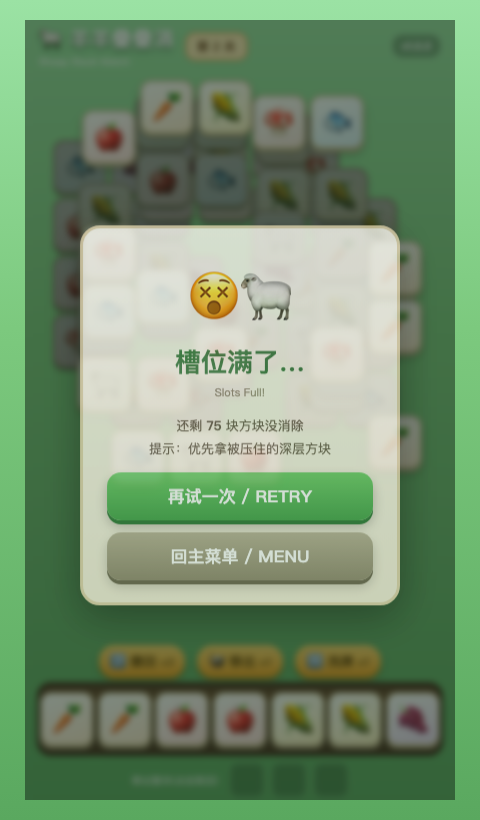
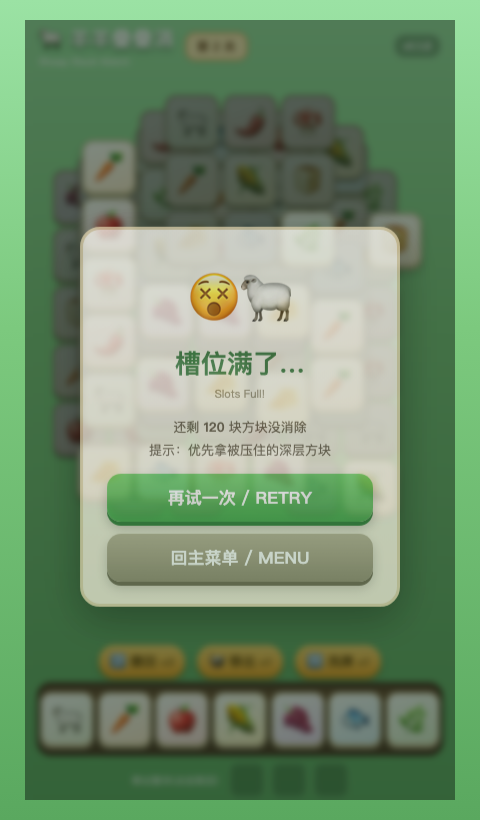
sheep-stack v1.1.0：难度重做——L1 教学关保持有解发牌，L2 起地狱难度（120 块/11 种/7 层，同类三张分埋顶/中/底三个深度带，还原原版卡关体验）；修复各层配额超容量导致落位数非 3 倍数的越界 bug

diff --git a/sheep-stack/game.js b/sheep-stack/game.js
@@ -1,7 +1,8 @@
 /* ============================================================
- * 羊羊叠叠消 Sheep Stack Match  v1.0.0
+ * 羊羊叠叠消 Sheep Stack Match  v1.1.0
  * 玩法：层叠卡牌 + 7 格槽位三消（类羊了个羊玩法，原创实现）
- * 特性：牌局按"消除顺序"发牌，数学上保证有解；无广告，道具免费限量
+ * 特性：L1 教学关（有解发牌）；L2 起地狱难度（三深度带深埋）；
+ *       无广告，道具免费限量
  * 句柄：window.__sheep（自动化测试用）
  * ============================================================ */
 (function () {
@@ -26,12 +27,17 @@ const TYPES = [
   { e: '🌰', c: '#ecdfc8' }, { e: '🌻', c: '#fff3cf' },
 ];
 
-// 关卡配置：L1 新手，L2 起地狱难度递增
+// 关卡配置：L1 新手教学（有解发牌）；L2 起地狱难度（同类三张深埋三个深度带，
+// 还原原版「第一关就是最后一关」的卡关体验）
 function levelConf(lv) {
-  const n = Math.min(45 + (lv - 1) * 30, 150);
-  const types = Math.min(5 + lv, TYPES.length);
-  const layers = Math.min(3 + lv, 9);
-  return { n: Math.round(n / 3) * 3, types, layers,
+  if (lv <= 1) {
+    return { n: 45, types: 4, layers: 3, spread: false,
+             undo: 3, out: 1, shuffle: 1 };
+  }
+  const n = Math.min(120 + (lv - 2) * 15, 150);
+  const types = Math.min(11 + (lv - 2), TYPES.length);
+  const layers = Math.min(7 + (lv - 2), 9);
+  return { n: Math.round(n / 3) * 3, types, layers, spread: true,
            undo: 3, out: 1, shuffle: 1 };
 }
 
@@ -52,11 +58,10 @@ const G = {
 const $ = (s) => document.querySelector(s);
 const board = $('#board'), slotBar = $('#slotBar'), outBar = $('#outBar');
 
-// ---------- 发牌（保证有解）----------
-// positions：分层布局；sortIndex：0 = 最顶层（最先可拿）。
-// 发牌把第 t 组三张放在"消除顺序"上连续的三个位置（sortIndex 3t..3t+2）——
-// 严格按 sortIndex 从小到大拿牌时，任何时刻槽内最多压 1 个待配对子 + 1 张单张，
-// 槽位峰值 ≤ 4 < 7，必有一条通关路径；层内格子随机打散，类型不会扎堆相邻。
+// ---------- 发牌 ----------
+// positions：分层布局；sortIndex：0 = 最顶层（最先可拿），rank = N-1-idx = 消除顺序。
+// 教学关用"连续三元组"（严格按序拿牌槽位峰值 ≤4，保证有解）；
+// 地狱关用"三深度带交错"（同类三张分埋顶/中/底，难度对齐原版第二关）。
 function genLayout(conf) {
   const layers = conf.layers;
   const layPos = [];
@@ -83,20 +88,26 @@ function deal(conf) {
   board.style.height = maxBottom + 'px';
   $('#boardWrap').style.width = (maxRight + 6) + 'px';
 
-  // 1) 各层分配数量（底层多、顶层少）
+  // 1) 各层分配数量（底层多、顶层少），并夹到每层格子容量内
   const L = conf.layers;
   const w = []; let wSum = 0;
   for (let i = 0; i < L; i++) { w.push(1 + (L - 1 - i) * 0.45); wSum += w[i]; }
-  const counts = w.map(x => Math.round(conf.n * x / wSum));
+  const counts = w.map((x, i) =>
+    Math.min(Math.round(conf.n * x / wSum), layPos[i].cells.length));
   let diff = conf.n - counts.reduce((a, b) => a + b, 0);
-  for (let i = 0; diff !== 0; i = (i + 1) % L) {           // 差额回填底层
-    const cap = layPos[i].cells.length - counts[i];
-    if (diff > 0 && cap > 0) { counts[i]++; diff--; }
-    else if (diff < 0 && counts[i] > 0) { counts[i]--; diff++; }
-    if (counts.every((c, j) => c <= layPos[j].cells.length) && diff === 0) break;
+  for (let guard = 0; diff !== 0 && guard < 500; guard++) {
+    let changed = false;
+    if (diff > 0) {          // 差额优先回填底层（剩余容量最大）
+      for (let i = 0; i < L && diff > 0; i++)
+        if (counts[i] < layPos[i].cells.length) { counts[i]++; diff--; changed = true; }
+    } else {                 // 多了就从顶层往下扣
+      for (let i = L - 1; i >= 0 && diff < 0; i--)
+        if (counts[i] > 0) { counts[i]--; diff++; changed = true; }
+    }
+    if (!changed) break;     // 容量耗尽，接受少量缺牌（仍保证 3 的倍数）
   }
 
-  // 2) 收集位置（底层→顶层），打乱层内格子
+  // 2) 收集位置（底层→顶层），打乱层内格子；总数强制为 3 的倍数
   const positions = [];
   for (let i = 0; i < L; i++) {
     const lp = layPos[i];
@@ -104,17 +115,24 @@ function deal(conf) {
     for (const [c, r] of cells)
       positions.push({ x: lp.dx + c * PITCH, y: lp.dy + r * PITCH, layer: i });
   }
+  positions.length = positions.length - (positions.length % 3);
   // positions[0..] = 底层先入列；sortIndex = N-1-idx → 顶层最先
   const N = positions.length;
   positions.forEach((p, idx) => { p.sortIndex = N - 1 - idx; });
 
-  // 3) 类型：连续三元组（消除顺序上相邻），类型表打散后循环取用
+  // 3) 类型分配（K = N/3 组，类型表打散后循环取用）
+  //    - 教学关（spread=false）：连续三元组——消除顺序上相邻，严格按序拿牌必通关
+  //    - 地狱关（spread=true）：第 t 组占消除顺序 rank ∈ {t, t+K, t+2K}，
+  //      即顶/中/底三个深度带各埋一张——手里一对要等埋在最底下的第三张
+  const K = N / 3;
   const shuffledTypes = Array.from({ length: conf.types }, (_, i) => i)
     .sort(() => Math.random() - .5);
   const finalType = new Array(N);
-  for (let t = 0; t < N / 3; t++) {
+  const put = (rank, type) => { finalType[N - 1 - rank] = type; }; // rank=消除序
+  for (let t = 0; t < K; t++) {
     const type = shuffledTypes[t % conf.types];
-    finalType[3 * t] = type; finalType[3 * t + 1] = type; finalType[3 * t + 2] = type;
+    if (conf.spread) { put(t, type); put(t + K, type); put(t + 2 * K, type); }
+    else { put(3 * t, type); put(3 * t + 1, type); put(3 * t + 2, type); }
   }
 
   // 4) 生成牌

diff --git a/sheep-stack/index.html b/sheep-stack/index.html
@@ -150,7 +150,7 @@
       <div class="sub">Sheep Stack Match</div>
     </div>
     <div id="lvlBadge">第 1 关</div>
-    <div id="verBadge">v1.0.0</div>
+    <div id="verBadge">v1.1.0</div>
   </div>
 
   <div id="boardWrap"><div id="board"></div></div>
@@ -171,8 +171,8 @@
     <div class="panel" id="menuPanel">
       <div class="sheep">🐑🐑🐑</div>
       <h1>羊羊叠叠消</h1>
-      <div class="en">Sheep Stack Match · v1.0.0</div>
-      <p>点击亮起的方块收进底部槽位，<b>三张同款</b>即可消除。<br>槽位七格，塞满即败；清空全部方块即胜。<br>本作<b>无任何广告</b>，道具免费限量，牌局保证有解。</p>
+      <div class="en">Sheep Stack Match · v1.1.0</div>
+      <p>点击亮起的方块收进底部槽位，<b>三张同款</b>即可消除。<br>槽位七格，塞满即败；清空全部方块即胜。<br><b>无任何广告</b>，道具免费限量。<br>第 1 关新手教学；<b>第 2 关起地狱难度</b>——同类三张深埋三个深度带，卡关才是常态。</p>
       <p id="bestLine" style="font-weight:700;color:#8a6d3b;"></p>
       <button class="bigBtn" id="btnStart">开始冒险 / PLAY</button>
       <button class="bigBtn alt" id="btnRestart">从第 1 关重来 / RESTART</button>

diff --git a/README.md b/README.md
@@ -314,13 +314,13 @@
 
 操作：1P `WASD` 移动 / `空格(J)` 射击 / `K(左Shift)` 大招；2P `↑↓←→` 移动 / `回车` 射击 / `右Shift(/)` 大招；`P / Esc` 暂停。手机端拖动移动、自动射击、右下角按钮放大招。
 
-### 9. 羊羊叠叠消 (Sheep Stack Match) 🐑 *休闲三消 · 无广告 (v1.0.0)*
+### 9. 羊羊叠叠消 (Sheep Stack Match) 🐑 *休闲三消 · 无广告 (v1.1.0)*
 类「羊了个羊」玩法的层叠方块三消，原创皮肤与命名，**全程无任何广告**。
 
 - **经典玩法**：点击亮起（未被压住）的方块收进底部 7 格槽位，三张同款即消除；槽位塞满即败，清空全部方块过关。
-- **牌局保证有解**：发牌按"消除顺序"排布三元组，数学上必存在通关路径——不像原版故意发无解牌逼你看广告。
+- **还原原版难度曲线**：第 1 关 45 块新手教学（发牌保证有解）；**第 2 关起地狱难度**——120 块起步、11 种方块、7 层深埋，且同类三张刻意分埋顶/中/底三个深度带，手里的一对要等埋在最底下的第三张，"第一关就是最后一关"。
 - **道具免费限量**：每关 3 次**撤回**、1 次**移出**（槽位前三张挪到暂存区，可点击取回）、1 次**洗牌**（重排场上方块花色）。
-- **无限关卡**：第 1 关 45 块热身，之后每关 +30 块、层数与种类递增（上限 150 块 / 9 层 / 14 种），最高纪录本地保存。
+- **无限关卡**：地狱关每关 +15 块 / +1 种 / 加层（上限 150 块 / 14 种 / 9 层），最高纪录本地保存。
 - **纯前端零素材**：emoji 方块 + CSS 木纹槽位 + WebAudio 音效，无外部资源、无弹窗、手机触屏可玩。
 
 路径：`sheep-stack/`，入口：游戏中心 → 羊羊叠叠消。
